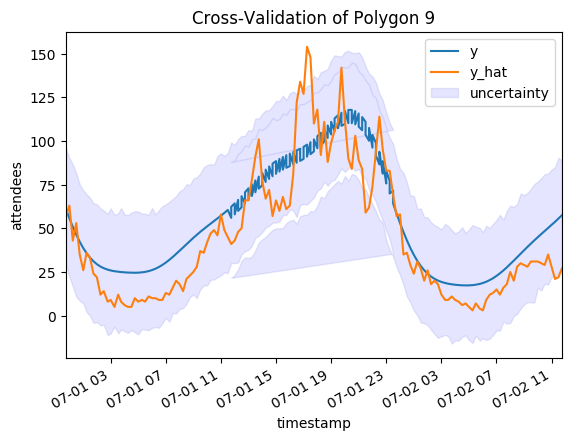
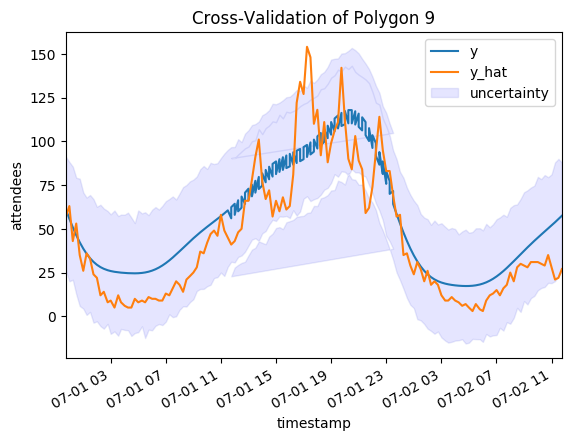
join df with polygon names

diff --git a/ts-fbprophet.py b/ts-fbprophet.py
@@ -19,7 +19,7 @@ cv_horizon_unit = 'hour'    # units: sec, minute, hour, day, week, month
 hr_range_arr = [24, 12, 8, 4, 2, 1] # state model accuracy for these hours for RMSE, R^2, MAPE
 
 # setup data
-plotforecasts, plotcrossvals, plotcvuncertainty = False, False, False
+plotforecasts, plotcrossvals, plotcvuncertainty = False, True, True
 slices_per_hour = 4                                         # 15m = 4, 30m = 2, 60m = 1
 startdate = dateutil.parser.parse('2017-06-27 12:00:00')    # goes from 26-06 to 05-07
 enddate =   dateutil.parser.parse('2017-07-02 12:00:00')
@@ -121,6 +121,7 @@ def run_one_polygon(df_orig, polygon):
     model = fb_forecast(df_orig, polygon)
     df_cv = fb_crossvalidate(model, polygon)
     cvscore_per_hr = evaluate_cv_per_hour(df_cv, polygon)
+    df_cv.to_csv('so-data' + str(polygon) + '.csv')
     return cvscore_per_hr
 
 def parallelise(df_orig, list_polygons, allresults):
@@ -141,6 +142,7 @@ def create_final_df(allresults):
     df_pinfo = df_pinfo.set_index('ogr_fid')
     df_pinfo.index.rename('POLYGON', inplace=True)
     df_joined = df_endresult.join(df_pinfo, how='outer')
+    # todo: where HOUR > 0, cast to int
     return df_joined
 
 if __name__ == "__main__":
